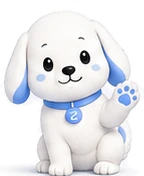
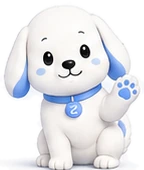
fix(qa): readable mobile product surface, cleaner sprites, a11y landmarks
Refinement pass driven by looking at the renders, not by reading the code.

Mobile product surface. The reveal was showing the desktop interface scaled
into a 351px box, which renders its type at roughly five pixels - a picture of
a product rather than a product, and exactly what the brief said to avoid.
Below lg it is now a purpose-built surface carrying the same information in the
same order at a size a person can read.

Landmarks. ProductPreview declared <aside>, <header> and <nav> inside an
aria-hidden tree, so the homepage advertised six navigation landmarks - one of
them unlabelled - and two headers. Decorative chrome is now plain elements, and
the page reports one header, one main and four labelled navs.

Zev sprites. A stray speck from the sheet survived the grouping dilation and
sat above his head; invisible on Cloud, obvious on the ink auth panel. Isolated
alpha islands are now dropped, and the component's intrinsic sizes are
regenerated from the manifest so next/image dimensions stay exact.

React patterns. Platform detection read navigator inside an effect and mirrored
it into state; it now uses useSyncExternalStore with a null server snapshot, so
markup is stable through hydration. ZevScene takes reduced-motion from the
motion runtime rather than mirroring a media query into state.

Tablet. At 1024 Zev rode up over the ledger caption; the negative offset is
scoped to xl, where the column is wide enough for it.
[…]

diff --git a/website/components/product-preview/ProductPreviewCompact.tsx b/website/components/product-preview/ProductPreviewCompact.tsx
@@ -1,0 +1,90 @@
+import { ZevqoraMark } from "@/components/brand/ZevqoraMark";
+import { StatusChip } from "@/components/ui/StatusChip";
+import { DEMO_WORKSPACE, DIAGNOSES, SPEND_NODES } from "@/data/product-demo";
+
+/**
+ * The product surface for small screens.
+ *
+ * Not the desktop interface scaled down. At 390px the full layout renders its
+ * type at roughly five pixels - a picture of an interface rather than an
+ * interface - so this shows the same information in the same order at a size a
+ * person can actually read: the workspace, what was observed, where the spend
+ * went, what was diagnosed, and the standing verdict.
+ */
+export function ProductPreviewCompact() {
+  const spend = SPEND_NODES.slice(1);
+  const max = Math.max(...spend.map((s) => s.share));
+
+  return (
+    <div className="bg-surface">
+      <div className="flex items-center justify-between border-b border-line px-5 py-4">
+        <span className="flex items-center gap-2.5">
+          <ZevqoraMark height={18} />
+          <span className="text-caption text-ink font-semibold">
+            {DEMO_WORKSPACE.name}
+          </span>
+        </span>
+        <span className="text-technical font-mono text-subtle">
+          {DEMO_WORKSPACE.window}
+        </span>
+      </div>
+
+      <div className="grid grid-cols-2 gap-px bg-line">
+        {DEMO_WORKSPACE.stats.map((s) => (
+          <div key={s.label} className="bg-surface px-5 py-4">
+            <div className="text-technical font-mono text-subtle uppercase">
+              {s.label}
+            </div>
+            <div className="text-h3 mt-1 font-mono tabular-nums">
+              {s.value}
+              {s.unit && (
+                <span className="text-caption text-subtle ml-1">{s.unit}</span>
+              )}
+            </div>
+          </div>
+        ))}
+      </div>
+
+      <div className="border-t border-line px-5 py-5">
+        <h3 className="text-caption text-ink font-semibold">Spend graph</h3>
+        <ul className="mt-3">
+          {spend.map((s) => (
+            <li key={s.id} className="border-b border-line py-2.5 last:border-b-0">
+              <div className="flex items-baseline justify-between gap-3">
+                <span className="text-caption text-ink">{s.label}</span>
+                <span className="text-technical font-mono text-muted tabular-nums">
+                  {s.share}%
+                </span>
+              </div>
+              <div className="bg-line/70 mt-2 h-1.5 w-full overflow-hidden rounded-sm">
+                <div
+                  className={s.note ? "bg-accent h-full" : "bg-line-strong h-full"}
+                  style={{ width: (s.share / max) * 100 + "%" }}
+                />
+              </div>
+            </li>
+          ))}
+        </ul>
+      </div>
+
+      <div className="border-t border-line px-5 py-5">
+        <h3 className="text-caption text-ink font-semibold">Open diagnoses</h3>
+        <ul className="mt-3 flex flex-col gap-3">
+          {DIAGNOSES.map((d) => (
+            <li key={d.id} className="border-l-2 border-l-accent pl-3">
+              <div className="text-caption text-ink">{d.title}</div>
+              <div className="text-technical font-mono text-subtle">
+                {d.share} of task spend
+              </div>
+            </li>
+          ))}
+        </ul>
+      </div>
+
+      <div className="flex items-center justify-between gap-3 border-t border-line px-5 py-4">
+        <span className="text-caption text-ink">Candidate D</span>
+        <StatusChip status="verified" />
+      </div>
+    </div>
+  );
+}

diff --git a/website/components/product-preview/ProductPreview.tsx b/website/components/product-preview/ProductPreview.tsx
@@ -26,14 +26,16 @@ export function ProductPreview({ className }: { className?: string }) {
       aria-hidden
     >
       {/* Sidebar */}
-      <aside className="border-line flex h-full w-[21cqw] shrink-0 flex-col border-r">
+      <div className="border-line flex h-full w-[21cqw] shrink-0 flex-col border-r">
         <div className="flex items-center gap-[1cqw] px-[1.6cqw] py-[1.5cqw]">
           <ZevqoraMark height={16} style={{ height: "2cqw", width: "auto" }} />
           <span className="text-[1.35cqw] font-semibold tracking-tight">
             {DEMO_WORKSPACE.name}
           </span>
         </div>
-        <nav className="flex flex-col gap-[0.15cqw] px-[0.8cqw]">
+        {/* Not a <nav>: this whole tree is aria-hidden decoration, and a
+            landmark here would show up in the page's landmark list. */}
+        <div className="flex flex-col gap-[0.15cqw] px-[0.8cqw]">
           {DEMO_WORKSPACE.nav.map((item, i) => (
             <span
               key={item}
@@ -45,22 +47,22 @@ export function ProductPreview({ className }: { className?: string }) {
               {item}
             </span>
           ))}
-        </nav>
+        </div>
         <div className="mt-auto px-[1.6cqw] py-[1.4cqw]">
           <span className="text-subtle font-mono text-[1.05cqw]">
             {DEMO_WORKSPACE.environment}
           </span>
         </div>
-      </aside>
+      </div>
 
       {/* Main */}
       <div className="flex min-w-0 flex-1 flex-col">
-        <header className="border-line flex items-center justify-between border-b px-[2cqw] py-[1.4cqw]">
+        <div className="border-line flex items-center justify-between border-b px-[2cqw] py-[1.4cqw]">
           <span className="text-[1.5cqw] font-semibold tracking-tight">Overview</span>
           <span className="border-line text-muted rounded-[0.5cqw] border px-[0.9cqw] py-[0.4cqw] font-mono text-[1.05cqw]">
             {DEMO_WORKSPACE.window}
           </span>
-        </header>
+        </div>
 
         <div className="flex-1 overflow-hidden px-[2cqw] py-[1.6cqw]">
           {/* Stat row */}

diff --git a/website/components/marketing/MacbookReveal.tsx b/website/components/marketing/MacbookReveal.tsx
@@ -4,6 +4,7 @@ import { useRef } from "react";
 import { motion, useReducedMotion, useScroll, useTransform } from "motion/react";
 import { MacbookPro } from "@/components/product-preview/MacbookPro";
 import { ProductPreview } from "@/components/product-preview/ProductPreview";
+import { ProductPreviewCompact } from "@/components/product-preview/ProductPreviewCompact";
 
 /**
  * The product reveal.
@@ -46,13 +47,12 @@ export function MacbookReveal() {
         </motion.div>
       </div>
 
-      {/* Below lg the enclosure would shrink the UI past readability, so the
-          preview is shown on its own framed surface instead. */}
+      {/* Below lg the enclosure would shrink the interface to roughly five-pixel
+          type - a picture of a product rather than a product - so the same
+          information is laid out for the width that actually exists. */}
       <div className="lg:hidden">
         <div className="border-line overflow-hidden rounded-lg border shadow-lift">
-          <div className="aspect-[501/324] w-full">
-            <ProductPreview />
-          </div>
+          <ProductPreviewCompact />
         </div>
       </div>
     </div>

diff --git a/website/components/brand/zev/Zev.tsx b/website/components/brand/zev/Zev.tsx
@@ -20,14 +20,14 @@ export type ZevView =
  */
 const SPRITES: Record<ZevView, { w: number; h: number }> = {
   front: { w: 245, h: 306 },
-  "three-quarter-front": { w: 263, h: 304 },
-  side: { w: 273, h: 302 },
-  "three-quarter-back": { w: 233, h: 315 },
+  "three-quarter-front": { w: 260, h: 304 },
+  side: { w: 270, h: 302 },
+  "three-quarter-back": { w: 233, h: 303 },
   back: { w: 230, h: 304 },
-  "pose-sitting": { w: 140, h: 176 },
+  "pose-sitting": { w: 140, h: 167 },
   "pose-playful": { w: 168, h: 145 },
   "pose-thinking": { w: 141, h: 167 },
-  "pose-waving": { w: 144, h: 176 },
+  "pose-waving": { w: 144, h: 170 },
 };
 
 interface ZevProps {

diff --git a/website/components/marketing/Hero.tsx b/website/components/marketing/Hero.tsx
@@ -60,7 +60,7 @@ export function Hero() {
 
           {/* Zev sits at the foot of the stream, tucked against it rather than
               floating in the margin. */}
-          <div className="pointer-events-none mt-2 flex justify-center lg:-mt-6 lg:justify-end lg:pr-4">
+          <div className="pointer-events-none mt-2 flex justify-center lg:justify-end lg:pr-4 xl:-mt-6">
             <ZevScene view="three-quarter-front" height={200} priority />
           </div>
         </div>

diff --git a/tools/extract-zev.py b/tools/extract-zev.py
@@ -117,10 +117,28 @@ def alpha_for(bgr: np.ndarray) -> np.ndarray:
     return cv2.GaussianBlur(alpha, (0, 0), 0.7)
 
 
+def drop_specks(a: np.ndarray, min_frac: float = 0.004) -> np.ndarray:
+    """Remove isolated alpha islands far too small to be part of Zev.
+
+    The grouping dilation pulls in anything near the figure, which can include a
+    stray mark from the sheet. Invisible on Cloud, obvious on ink.
+    """
+    solid = a > 0.35
+    lbl, n = ndimage.label(solid)
+    if n <= 1:
+        return a
+    sizes = ndimage.sum(solid, lbl, range(1, n + 1))
+    keep = {i + 1 for i, sz in enumerate(sizes) if sz >= min_frac * sizes.max()}
+    mask = np.isin(lbl, list(keep))
+    # Dilate slightly so the feathered edge of kept parts is not clipped.
+    grown = cv2.dilate(mask.astype(np.uint8), np.ones((5, 5), np.uint8)) > 0
+    return a * grown
+
+
 def cut(bgr: np.ndarray, box: tuple[int, int, int, int]) -> np.ndarray | None:
     x0, y0, x1, y1 = box
     crop = bgr[y0:y1, x0:x1]
-    a = alpha_for(crop)
+    a = drop_specks(alpha_for(crop))
     ys, xs = np.nonzero(a > 0.08)
     if len(xs) == 0:
         return None
